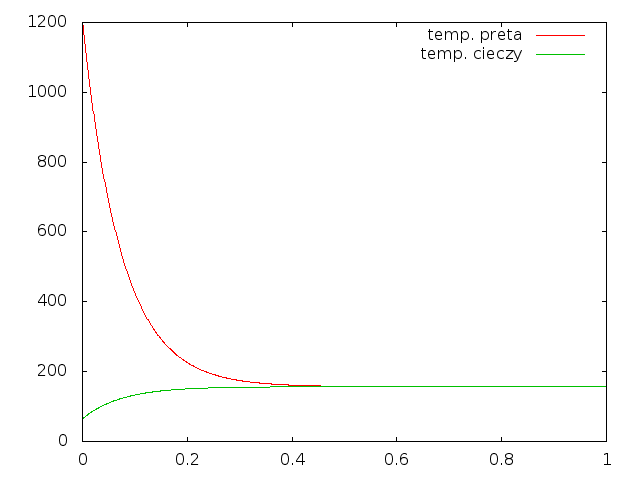
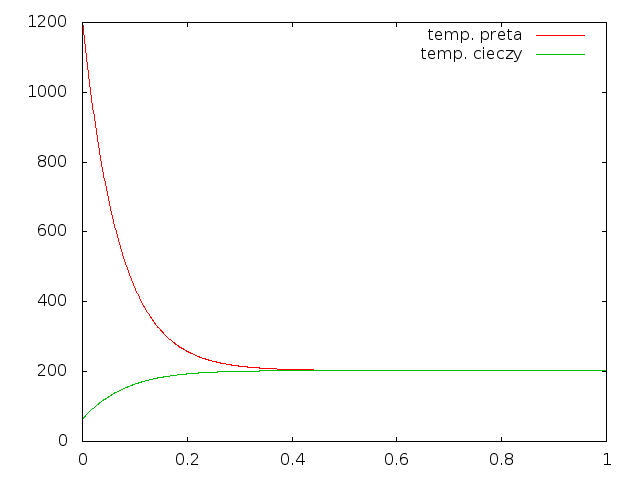
Działa nareszcie. Głupi błąd, a praktycznie ciężkowykrywalny.

diff --git a/project/czas.c b/project/czas.c
@@ -1,16 +1,12 @@
 #include "struct.h"
 #include "czas.h"
+#include "aproksymator/splines.h"
 #include <stdlib.h>
 #include <stdio.h>
-double cw( cool_t cool_data , int index){
-
-	int i;
-
-	for(i = 0 ; cool_data->Y[1][index] < cool_data->cw[0][i] ; i++ ){
-		;
-	}
-
-	return cool_data->cw[1][i];
+double cw( cool_t cool_data , double T){
+	double v;
+	v = splines_eval( cool_data->cw , T );
+	return v;
 }
 
 cool_t przebiegnij( cool_t cool_data){
@@ -21,7 +17,7 @@ cool_t przebiegnij( cool_t cool_data){
 	
 	cool_data->Y[0][i] = cool_data->Y[0][i - 1] + cool_data->dt * ( ( cool_data->Y[1][i - 1] - cool_data->Y[0][i - 1]) * cool_data->stale.h * cool_data->stale.A / cool_data->stale.mb / cool_data->stale.cb );
 
-	cool_data->Y[1][i] = cool_data->Y[1][i - 1] + cool_data->dt * ( ( cool_data->Y[0][i - 1] - cool_data->Y[1][i - 1]) * cool_data->stale.h * cool_data->stale.A / cool_data->stale.mw / cw(cool_data , i-1) );
+	cool_data->Y[1][i] = cool_data->Y[1][i - 1] + cool_data->dt * ( ( cool_data->Y[0][i - 1] - cool_data->Y[1][i - 1]) * cool_data->stale.h * cool_data->stale.A / cool_data->stale.mw / cw(cool_data , cool_data->Y[1][i - 1]) );
 
 	}	
 

diff --git a/project/main.c b/project/main.c
@@ -19,15 +19,14 @@ int main(int argc, char **argv){
 	char *out = "wykres.png";
 	char bool3 = 0;
 	int ret = 0;
-	spline_t *spl;
-	points_t *pts;
+	points_t pts;
+	cool_t cool_data;
+	pts.n = 0;
 	
 	/*
 	Dodać obsługę błędów
 	*/
 
-	cool_t cool_data;
-	
 	cool_data = startalloc( cool_data );
 
 	while ((opt = getopt(argc, argv, "cipew:")) != -1){
@@ -74,16 +73,9 @@ int main(int argc, char **argv){
 
 	cool_data = add_const( cool_data , in );
 
-	spl = malloc( sizeof (*spl) );
-	pts = malloc( sizeof (*pts) );
+	read_points_failed( cwfile , &pts );
 
-	pts->n = 0;
-
-	read_points_failed( cwfile , pts );
-
-	spl = splines_approximate( pts , 8 );
-
-	cool_data = cw_gen( cool_data , "cwplot" );
+	cool_data->cw = splines_approximate( &pts , 4 );
 	
 	if (ret == -1 ){
 		fprintf( stderr , "Problemy z użyciem pliku do wyliczenia cw.\n");
@@ -100,7 +92,7 @@ int main(int argc, char **argv){
 	}
 
 	fclose( in );	
-
+	
 	make_plot(out, cool_data );
 
 	return 0;

diff --git a/project/aproksymator/points.c b/project/aproksymator/points.c
@@ -11,18 +11,21 @@ int read_points_failed(FILE * inf, points_t * pts)
 {
   int size;
   double x, y;
+
   if (pts->n == 0) {
     pts->x = malloc (100 * sizeof *pts->x);
     if (pts->x == NULL)
       return 1;
+
     pts->y = malloc (100 * sizeof *pts->y);
     if (pts->y == NULL) {
       free (pts->x);
       return 1;
     }
-    size= 100;
+    size = 100;
   } else
     size = pts->n;
+
   while (fscanf (inf, "%lf %lf", &x, &y) == 2) {
     pts->x[pts->n] = x;
     pts->y[pts->n] = y;
@@ -66,9 +69,8 @@ points_t * points_linspace(double a, double b, int n) {
     int i;
     points_t * points = (points_t*) malloc(sizeof(points_t));
     if (points != NULL) {
-	double h;
         points->n = n;
-        h = (b - a) / n;
+        double h = (b - a) / n;
         points->x = (double*) malloc(n * sizeof(double));
         if (points->x == NULL) {
             free(points);

diff --git a/project/aproksymator/splines.c b/project/aproksymator/splines.c
@@ -1,8 +1,6 @@
-/*
 //
 // Created by szmurlor on 25.01.17.
 //
-*/
 
 #include "splines.h"
 
@@ -67,14 +65,9 @@ double _fi(double x, double *hx, double h) {
 double fi_ab (double a, double b, int nb, int i, double x)
 {
     double h = (b - a) / (nb - 1);
-    int hi[5]/* = { i - 2, i - 1, i, i + 1, i + 2 }*/;
+    int hi[5] = { i - 2, i - 1, i, i + 1, i + 2 };
     double hx[5];
     int j;
-    hi[0] = i - 2;
-    hi[1] = i - 1;
-    hi[2] = i;
-    hi[3] = i + 1;
-    hi[4] = i + 2;
 
     for (j = 0; j < 5; j++)
         hx[j] = a + h * hi[j];
@@ -89,7 +82,7 @@ double fi_ab (double a, double b, int nb, int i, double x)
  */
 double fi_xih (double xi, double h, double x)
 {
-    /* double h3 = h * h * h; */
+    double h3 = h * h * h;
     int hi[5] = { -2, -1, 0, 1, 2 };
     double hx[5];
     int j;

diff --git a/project/alloc.c b/project/alloc.c
@@ -77,33 +77,10 @@ cool_t add_const( cool_t cool_data , FILE *in ){
 	return cool_data;
 }
 
-cool_t cw_gen( cool_t cool_data , char *cwplot ){
-
-	int i;
-	FILE *in = fopen( cwplot , "r" );
-	cool_data->cw = malloc( 2 * sizeof (*cool_data->cw));
-
-	cool_data->cw[0] = malloc( ( cool_data->Yc + 1 ) * sizeof (cool_data->cw[0] ));
-	cool_data->cw[1] = malloc( ( cool_data->Yc + 1 ) * sizeof (cool_data->cw[1] ));
-
-	for( i = 0 ; i <= cool_data->Yc ; i++ ){
-	
-		fscanf( in , "%lf %lf" , &(cool_data->cw[0][i]) , &(cool_data->cw[1][i]));
-
-	}
-
-	fclose ( in );
-
-	return cool_data;
-
-}
-
 void freealloc( cool_t cool_data ){
 
 	free( cool_data->Y[1] );
 	free( cool_data->Y[0] );
-	free( cool_data->cw[1] );
-	free( cool_data->cw[0] );
 	free( cool_data->Y );
 	free( cool_data->cw );
 	

diff --git a/project/wykreslnik.c b/project/wykreslnik.c
@@ -9,9 +9,9 @@
 
 void make_plot( char *out, cool_t t) {
 	int i;
-	char dat_file[6] = "myplot";
-	char dat2_file[7] = "myplot1";
-	char cmd_file[7] = "myplot2";
+	char dat_file[7] = "myplot";
+	char dat2_file[8] = "myplot1";
+	char cmd_file[8] = "myplot2";
 	/*mkstemp(dat_file);
 	mkstemp(dat2_file);
 	mkstemp(cmd_file);*/

diff --git a/project/struct.h b/project/struct.h
@@ -1,3 +1,4 @@
+#include "aproksymator/splines.h"
 #ifndef STRUCT_DEF
 typedef struct {
 	double A;
@@ -19,7 +20,7 @@ typedef struct {
 	  */
 	double tend;
 	double tempend;
-	double **cw;
+	spline_t *cw;
 	const_t stale;
 } elem_t, *cool_t;
 

diff --git a/project/alloc.h b/project/alloc.h
@@ -8,6 +8,4 @@ cool_t Yalloc( cool_t cool_data );
 
 cool_t add_const( cool_t cool_data , FILE *in );
 
-cool_t cw_gen ( cool_t cool_data, char *cwplot );
-
 void freealloc( cool_t cool_data );

diff --git a/project/czas.h b/project/czas.h
@@ -4,7 +4,7 @@
 
 cool_t przebiegnij( cool_t cool_data);
 
-double cw( cool_t cool_data , int index); 
+double cw( cool_t cool_data , double T); 
 
 #define CZAS_DEF
 #endif
